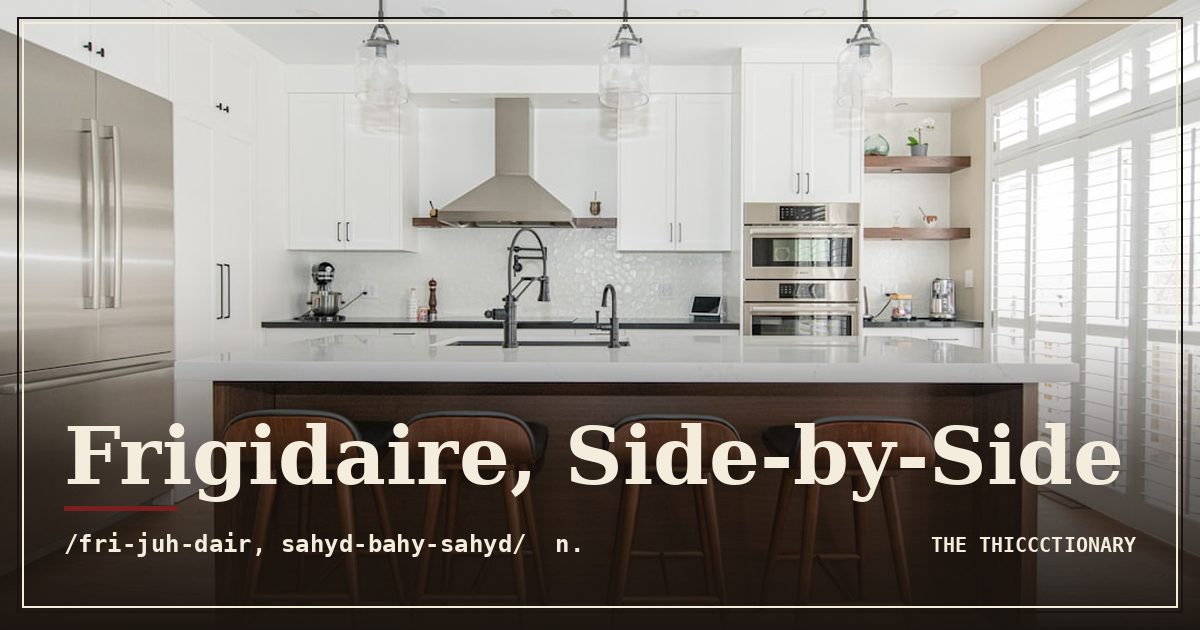
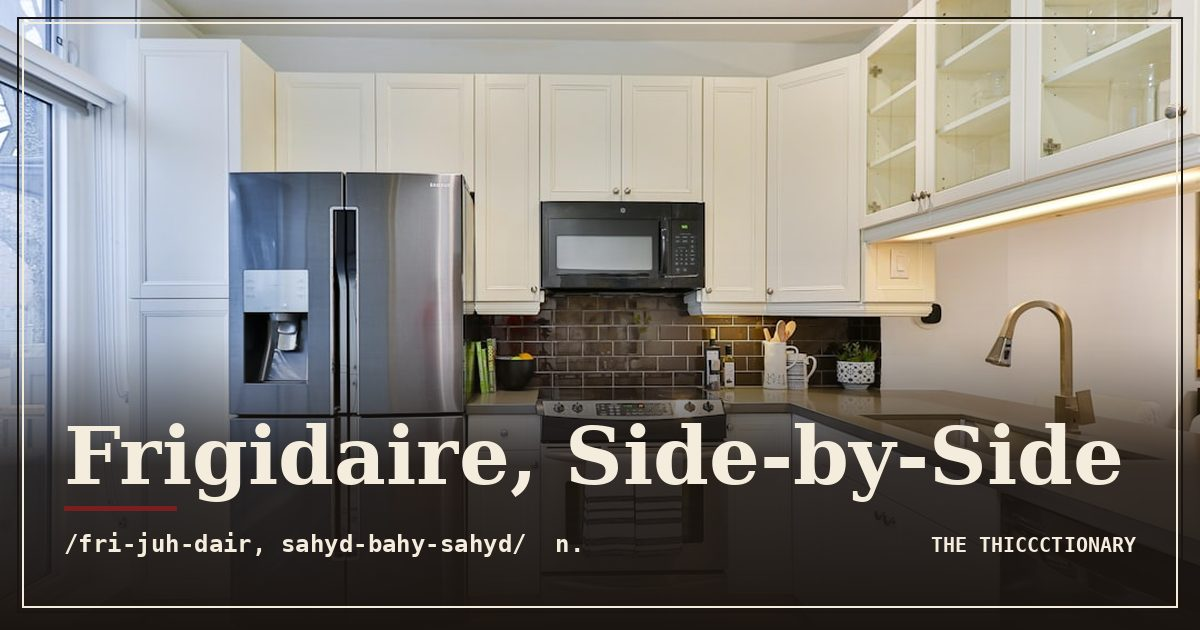
Regenerate images for older entries (tuned prompt)

diff --git a/entries/2026-05-02.html b/entries/2026-05-02.html
@@ -80,7 +80,7 @@
       "headline": "Frigidaire, Side-by-Side, Thiccctionary",
       "name": "Frigidaire, Side-by-Side",
       "description": "Side-by-Side Frigidaire: A domestic paragon of capacious elegance, featuring dual chilled chambers that stand in ostentatious parallel, prepared to…",
-      "image": "https://thiccctionary.com/images/2026-05-02-frigidaire-side-by-side-3r1j.jpg",
+      "image": "https://thiccctionary.com/images/2026-05-02-frigidaire-side-by-side.jpg",
       "datePublished": "2026-05-02",
       "dateModified": "2026-05-02",
       "inLanguage": "en-US",
@@ -181,12 +181,12 @@
       <div class="entry-image-wrap">
         <div class="entry-image">
           <picture>
-            <source srcset="../images/2026-05-02-frigidaire-side-by-side-3r1j.webp" type="image/webp" />
-            <img src="../images/2026-05-02-frigidaire-side-by-side-3r1j.jpg" alt="A sturdy sentinel of the kitchen realm, accentuated by its curve and depth." width="600" height="600" loading="eager" decoding="async" data-pin-do="buttonHover" data-pin-url="https://thiccctionary.com/entries/2026-05-02.html" data-pin-media="https://thiccctionary.com/images/og/2026-05-02.jpg" data-pin-description="Frigidaire, Side-by-Side, a Thiccctionary entry. A domestic paragon of capacious elegance, featuring dual chilled chambers that stand in ostentatious parallel, prepared to preserve victuals with all the subtlety of a colossus." />
+            <source srcset="../images/2026-05-02-frigidaire-side-by-side.webp" type="image/webp" />
+            <img src="../images/2026-05-02-frigidaire-side-by-side.jpg" alt="A sturdy sentinel of the kitchen realm, accentuated by its curve and depth." width="600" height="600" loading="eager" decoding="async" data-pin-do="buttonHover" data-pin-url="https://thiccctionary.com/entries/2026-05-02.html" data-pin-media="https://thiccctionary.com/images/og/2026-05-02.jpg" data-pin-description="Frigidaire, Side-by-Side, a Thiccctionary entry. A domestic paragon of capacious elegance, featuring dual chilled chambers that stand in ostentatious parallel, prepared to preserve victuals with all the subtlety of a colossus." />
           </picture>
         </div>
         <p class="entry-caption">Plate XXII., A sturdy sentinel of the kitchen realm, accentuated by its curve and depth.</p>
-        <p class="entry-credit">Photo by <a href="https://unsplash.com/@smartrenovationscanada?utm_source=thiccctionary&amp;utm_medium=referral" target="_blank" rel="noopener">Smart Renovations</a> on <a href="https://unsplash.com/?utm_source=thiccctionary&utm_medium=referral" target="_blank" rel="noopener">Unsplash</a></p>
+        <p class="entry-credit">Photo by <a href="https://unsplash.com/@lotusdnp?utm_source=thiccctionary&amp;utm_medium=referral" target="_blank" rel="noopener">Lotus Design N Print</a> on <a href="https://unsplash.com/?utm_source=thiccctionary&utm_medium=referral" target="_blank" rel="noopener">Unsplash</a></p>
       </div>
 
       <div class="entry-text">
@@ -254,7 +254,7 @@
     <section class="entry-sources" aria-label="Sources and editorial notes" style="margin: 56px 0 0; padding: 28px 24px; border-top: 1px solid var(--rule); font-size: 14px; line-height: 1.6;">
     <h3 style="font-family: var(--font-mono); font-size: 11px; letter-spacing: 0.2em; text-transform: uppercase; color: var(--oxblood); margin: 0 0 1rem; font-weight: 600;">Sources</h3>
     <ol style="margin: 0; padding-left: 1.5rem; color: var(--ink-soft);">
-      <li style="margin-bottom: 0.5rem;">Photograph by <a href="https://unsplash.com/@smartrenovationscanada" target="_blank" rel="noopener">Smart Renovations</a>, via <a href="https://unsplash.com/photos/modern-kitchen-with-island-and-bar-stools-Sfz7eEMpR7s" target="_blank" rel="noopener">Unsplash</a>. Catalogued under plate XXII.</li>
+      <li style="margin-bottom: 0.5rem;">Photograph by <a href="https://unsplash.com/@lotusdnp" target="_blank" rel="noopener">Lotus Design N Print</a>, via <a href="https://unsplash.com/photos/silver-french-door-refrigerator-beside-white-wooden-kitchen-cabinet-VaGdhK-kI1c" target="_blank" rel="noopener">Unsplash</a>. Catalogued under plate XXII.</li>
       <li style="margin-bottom: 0.5rem;">Direct ruling URL: <a href="../is/frigidaire-thiccc/">thiccctionary.com/is/frigidaire-thiccc/</a> &mdash; the shareable "Is a frigidaire thiccc?" page.</li>
       <li style="margin-bottom: 0.5rem;">Cross-reference: <a href="../a-z.html#F">Thiccctionary A-Z, F</a>.</li>
       <li style="margin-bottom: 0.5rem;">Catalogued under: <a href="../category/domestic-goods/">Domestic Goods</a>. See related entries below.</li>

diff --git a/is/frigidaire-thiccc/index.html b/is/frigidaire-thiccc/index.html
@@ -43,7 +43,7 @@
       "url": "https://thiccctionary.com/is/frigidaire-thiccc/",
       "headline": "Is a Frigidaire thiccc?",
       "description": "Yes, a frigidaire is officially thiccc per the Thiccctionary. A domestic paragon of capacious elegance, featuring dual chilled chambers that stand in…",
-      "image": "https://thiccctionary.com/images/2026-05-02-frigidaire-side-by-side-3r1j.jpg",
+      "image": "https://thiccctionary.com/images/2026-05-02-frigidaire-side-by-side.jpg",
       "datePublished": "2026-05-02",
       "author": {
         "@type": "Organization",
@@ -167,8 +167,8 @@
       <div class="entry-image-wrap">
         <div class="entry-image">
           <picture>
-            <source srcset="/images/2026-05-02-frigidaire-side-by-side-3r1j.webp" type="image/webp" />
-            <img src="/images/2026-05-02-frigidaire-side-by-side-3r1j.jpg" alt="Frigidaire, a thiccc subject" width="600" height="600" loading="eager" decoding="async" />
+            <source srcset="/images/2026-05-02-frigidaire-side-by-side.webp" type="image/webp" />
+            <img src="/images/2026-05-02-frigidaire-side-by-side.jpg" alt="Frigidaire, a thiccc subject" width="600" height="600" loading="eager" decoding="async" />
           </picture>
         </div>
         <p class="entry-caption">Plate XXII., A sturdy sentinel of the kitchen realm, accentuated by its curve and depth.</p>

diff --git a/category/domestic-goods/index.html b/category/domestic-goods/index.html
@@ -348,7 +348,7 @@
   </li>
   <li class="cat-card">
     <a href="/entries/2026-05-02.html">
-      <img src="/images/2026-05-02-frigidaire-side-by-side-3r1j.jpg" alt="A sturdy sentinel of the kitchen realm, accentuated by its curve and depth." loading="lazy" width="800" height="600" />
+      <img src="/images/2026-05-02-frigidaire-side-by-side.jpg" alt="A sturdy sentinel of the kitchen realm, accentuated by its curve and depth." loading="lazy" width="800" height="600" />
       <div class="cat-card-body">
         <p class="cat-card-word">Frigidaire, Side-by-Side</p>
         <p class="cat-card-def">A domestic paragon of capacious elegance, featuring dual chilled chambers that stand in ostentatious parallel, prepared to preserve victuals with all…</p>
